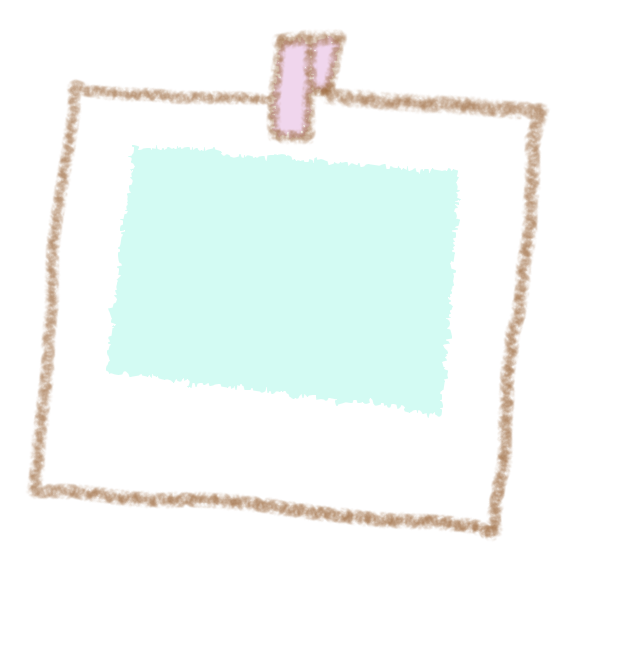
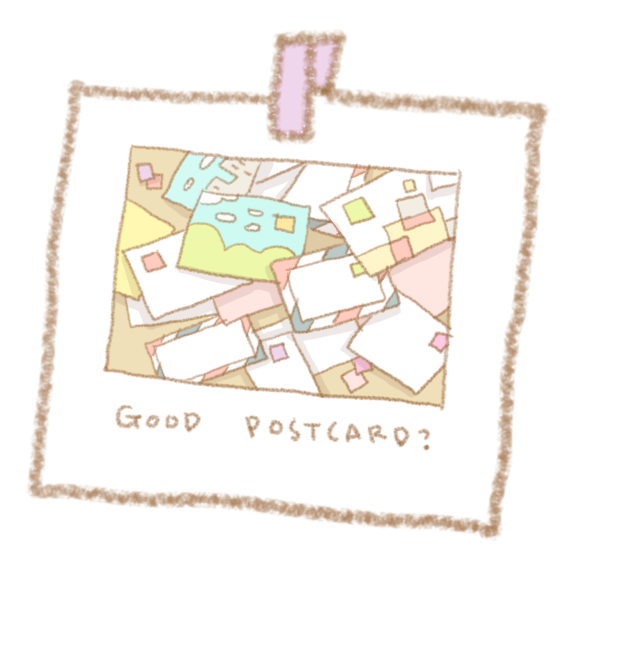
added illustrations

Changed region(s): [[0.1518, 0.2134, 0.7588, 0.7012]]

diff --git a/public/css/stylesheet.css b/public/css/stylesheet.css
@@ -63,6 +63,7 @@ body {
   background-color: #fffde9;
   font-family: avenir-book;
   color: white;
+  overflow-y: hidden;
 }
 
 #wrapper {
@@ -131,7 +132,7 @@ h4 {
 }
 
 #background_layer {
-  background-color: rgba(20, 20, 20, 0.7);
+  background-color: rgba(20, 20, 20, 0.6);
   position: absolute;
   width: 100%;
   height: 100%;
@@ -221,12 +222,16 @@ canvas {
   z-index: 50;
 }
 
+#bg_main {
+  opacity: 0.85;
+}
+
 #middle_background {
   background-image: url("/thumbs/bg_02.png");
   top: 40px;
   background-size: 5%;
   background-repeat: repeat-x;
-  width: 2440px;
+  width: 2740px;
   position: absolute;
   z-index: 2;
 }
@@ -258,7 +263,8 @@ canvas {
   height: 100%;
   bottom: 0;
   position: fixed;
-  background-color: #B3FAD8;
+  background-color: #b4f3f4;
+  /* sky color */
 }
 
 #captionArea {
@@ -276,7 +282,7 @@ canvas {
   width: 100%;
   height: 100%;
   z-index: 200;
-  background-color: rgba(20, 20, 20, 0.7);
+  background-color: rgba(20, 20, 20, 0.6);
 }
 
 #questionPopup {
@@ -293,7 +299,7 @@ canvas {
   top: 150px;
   margin: 0 auto;
   z-index: 300;
-  color: rgba(20, 20, 20, 0.7);
+  color: rgba(20, 20, 20, 0.6);
   background-color: rgba(255, 255, 255, 0.8);
 }
 

diff --git a/views/index.html b/views/index.html
@@ -1,8 +1,4 @@
 <style>
-	body{
-		background-color: #F2EBD9;
-		overflow-y: hidden;
-	}
 
 	ul{
 		margin-left: -34px;
@@ -13,7 +9,6 @@
 		display: inline;
 		list-style-type: none;
 	}
-
 </style>
 
 
@@ -71,7 +66,7 @@
 		<div id="captionArea">
 			<br><br>
 			<!-- draw stars / illustrations -->
-			<img class="bg" src="/images/index_bg03.png">
+			<img id="bg_main" class="bg" src="/images/index_bg04.png">
 		</div>
 	</div>
 

diff --git a/views/login.html b/views/login.html
@@ -3,7 +3,7 @@
 
 <style>
 	body{
-		background-color: rgba(20,20,20,0.7);
+		background-color: #3f3f3f;
 	}
 </style>
 

diff --git a/views/gallery.html b/views/gallery.html
@@ -1,6 +1,6 @@
 <style>
 	body{
-		background-color: #F4F0E5
+		background-color: #F4F0E5;
 	}
 </style>
 
